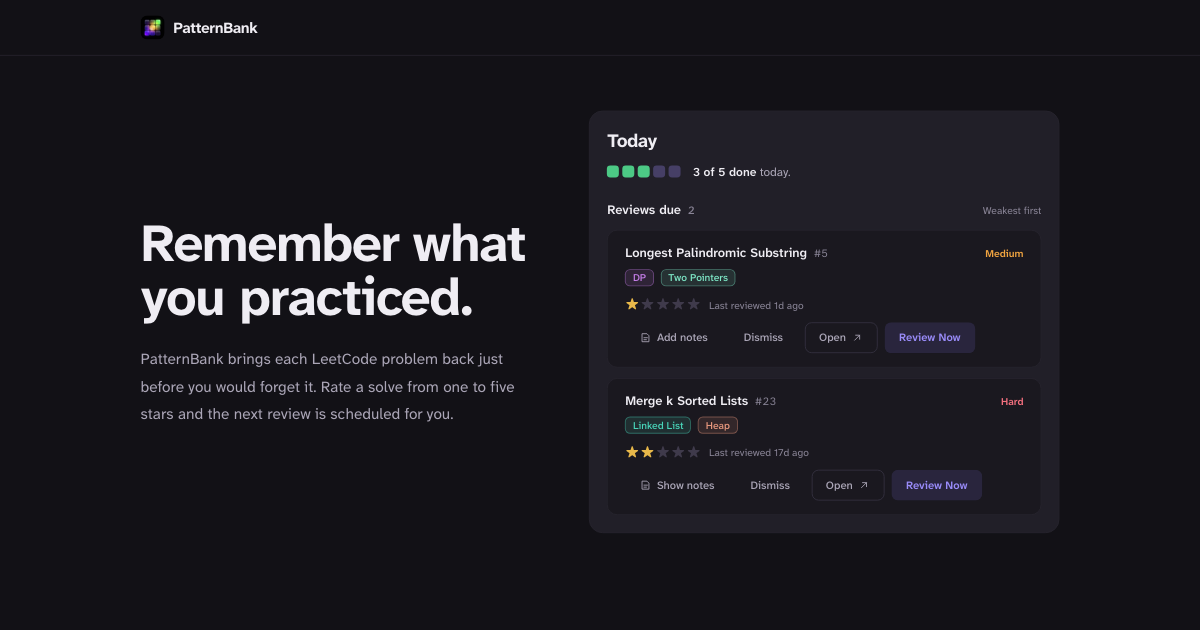
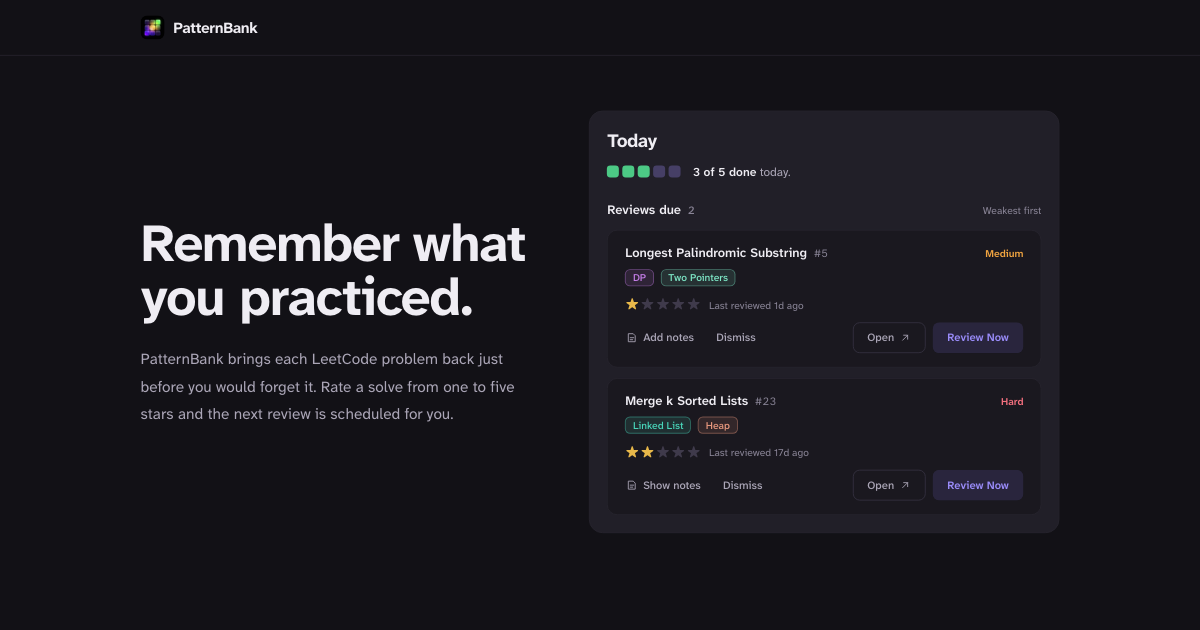
today: the review card's actions line up at every width
When the card was too narrow for one line, the buttons wrapped under the
stars and started with a borderless button, whose invisible padding left
its icon 16px in from the title, tags and stars; the row also ended
wherever its last button did.

The row now follows the card's own width (a container query, since the
same card is drawn full width on Today and in a narrow column on the
landing page):
- wide: one line, actions at the right, as before;
- medium: quiet actions on the left, flush with the content edge, and
  Open and Review Now on the right;
- narrow: the quiet actions, then the main pair across the card.

The sharing picture shows this card, so it is regenerated.

diff --git a/src/components/TodayReviewCard.tsx b/src/components/TodayReviewCard.tsx
@@ -36,6 +36,8 @@ export default function TodayReviewCard({
     ? `Last reviewed ${formatRelativeDate(problem.lastReviewed).toLowerCase()}`
     : "Never reviewed";
 
+  const showsNotesButton = !notesRevealed;
+
   const handleDone = (confidence: Confidence) => {
     onReview(problem.id, confidence);
     setReviewing(false);
@@ -43,7 +45,7 @@ export default function TodayReviewCard({
   };
 
   return (
-    <article className="rounded-xl border border-pb-border-light bg-pb-surface p-4 sm:px-5">
+    <article className="@container rounded-xl border border-pb-border-light bg-pb-surface p-4 sm:px-5">
       {/* Title line: what the problem is on the left, how hard on the right. */}
       <div className="flex items-baseline justify-between gap-4">
         <div className="flex min-w-0 flex-wrap items-baseline gap-x-2 gap-y-0.5">
@@ -86,26 +88,46 @@ export default function TodayReviewCard({
         )}
       </div>
 
-      <div className="mt-3.5 flex flex-wrap items-center justify-between gap-x-4 gap-y-3">
+      {/* The actions follow the card's own width, because the same card is
+          drawn full width on Today and in a narrow column elsewhere:
+          - wide: one line, the actions at the right of the stars;
+          - medium: their own line, quiet actions left and the main pair right;
+          - narrow: the quiet actions, then the main pair across the card. */}
+      <div className="mt-3.5 flex flex-col gap-3 @2xl:flex-row @2xl:items-center @2xl:justify-between @2xl:gap-4">
         <div className="flex items-center gap-2.5">
           <StarPicker mode="display" size="md" value={problem.confidence} />
           <span className="text-xs text-pb-text-dim">{lastReviewedText}</span>
         </div>
-        {/* The notes toggle stays while rating: notes are what you check
-            before deciding how well you knew it. */}
-        {(!reviewing || !notesRevealed) && (
-          <div className="flex flex-wrap items-center gap-2 max-sm:w-full">
-            {!notesRevealed && (
-              <button type="button" onClick={() => setNotesRevealed(true)} className={buttonClass("ghost")}>
-                <Icon name="note" className="h-3.5 w-3.5" />
-                {problem.notes ? "Show notes" : "Add notes"}
-              </button>
-            )}
-            {!reviewing && (
-              <>
-                <button type="button" onClick={() => onDismiss(problem.id)} className={buttonClass("ghost")}>
+        {(showsNotesButton || !reviewing) && (
+          <div className="flex flex-wrap items-center gap-x-4 gap-y-2 @md:flex-nowrap @md:justify-between @2xl:justify-end @2xl:gap-x-2">
+            {/* Borderless buttons carry padding nobody can see. Pulling the
+                group left by that padding puts its first label on the same
+                edge as the title, tags and stars. The notes toggle stays
+                while rating: notes are what you check before deciding how
+                well you knew it. */}
+            <div data-card-actions="quiet" className="-ml-2.5 flex items-center gap-1 @2xl:ml-0">
+              {showsNotesButton && (
+                <button
+                  type="button"
+                  onClick={() => setNotesRevealed(true)}
+                  className={`${buttonClass("ghost")} px-2.5!`}
+                >
+                  <Icon name="note" className="h-3.5 w-3.5" />
+                  {problem.notes ? "Show notes" : "Add notes"}
+                </button>
+              )}
+              {!reviewing && (
+                <button
+                  type="button"
+                  onClick={() => onDismiss(problem.id)}
+                  className={`${buttonClass("ghost")} px-2.5!`}
+                >
                   Dismiss
                 </button>
+              )}
+            </div>
+            {!reviewing && (
+              <div data-card-actions="main" className="flex items-center gap-2 @max-md:w-full">
                 {problem.url && (
                   <a
                     href={problem.url}
@@ -120,11 +142,11 @@ export default function TodayReviewCard({
                 <button
                   type="button"
                   onClick={() => setReviewing(true)}
-                  className={`${buttonClass("soft")} max-sm:flex-1`}
+                  className={`${buttonClass("soft")} @max-md:flex-1`}
                 >
                   Review Now
                 </button>
-              </>
+              </div>
             )}
           </div>
         )}

diff --git a/tests/todayReviewCard.test.tsx b/tests/todayReviewCard.test.tsx
@@ -1,0 +1,99 @@
+// @vitest-environment jsdom
+import { fireEvent, render, screen, within } from "@testing-library/react";
+import { describe, expect, it, vi } from "vitest";
+import TodayReviewCard from "../src/components/TodayReviewCard";
+import type { Problem } from "../src/types";
+
+function problem(overrides: Partial<Problem> = {}): Problem {
+  return {
+    id: "p5",
+    title: "Longest Palindromic Substring",
+    leetcodeNumber: 5,
+    url: "https://leetcode.com/problems/longest-palindromic-substring/",
+    difficulty: "Medium",
+    patterns: ["DP", "Two Pointers"],
+    confidence: 1,
+    notes: "",
+    excludeFromReview: false,
+    dateAdded: "2026-01-01",
+    lastReviewed: "2026-01-02",
+    nextReviewDate: "2026-01-03",
+    updatedAt: "2026-01-02T09:00:00.000Z",
+    ...overrides,
+  };
+}
+
+function renderCard(overrides: Partial<Problem> = {}) {
+  const handlers = { onReview: vi.fn(), onDismiss: vi.fn(), onUpdateNotes: vi.fn() };
+  const view = render(<TodayReviewCard problem={problem(overrides)} {...handlers} />);
+  return { ...view, ...handlers };
+}
+
+describe("TodayReviewCard actions", () => {
+  it("keeps the quiet actions together, ahead of the main ones", () => {
+    const { container } = renderCard();
+
+    const quiet = container.querySelector<HTMLElement>("[data-card-actions='quiet']");
+    const main = container.querySelector<HTMLElement>("[data-card-actions='main']");
+    expect(quiet).not.toBeNull();
+    expect(main).not.toBeNull();
+
+    expect(within(quiet!).getByRole("button", { name: "Add notes" })).toBeTruthy();
+    expect(within(quiet!).getByRole("button", { name: "Dismiss" })).toBeTruthy();
+    expect(within(main!).getByRole("link", { name: /Open/ })).toBeTruthy();
+    expect(within(main!).getByRole("button", { name: "Review Now" })).toBeTruthy();
+
+    // Quiet first, so they take the left of a narrow card and the main pair the right.
+    expect(quiet!.compareDocumentPosition(main!) & Node.DOCUMENT_POSITION_FOLLOWING).toBeTruthy();
+    expect(quiet!.parentElement).toBe(main!.parentElement);
+  });
+
+  it("lays the row out from the card's own width, not the window's", () => {
+    const { container } = renderCard();
+
+    // The same card is drawn full width on Today and in a narrow column
+    // elsewhere, so its breakpoints have to follow the card.
+    expect(container.querySelector("article")!.className).toContain("@container");
+    const quiet = container.querySelector<HTMLElement>("[data-card-actions='quiet']")!;
+    // A borderless button's padding is invisible; the group is pulled left by
+    // that padding so its first label starts on the card's content edge.
+    expect(quiet.className).toContain("-ml-2.5");
+    for (const button of within(quiet).getAllByRole("button")) {
+      expect(button.className).toContain("px-2.5!");
+    }
+  });
+
+  it("still dismisses, opens notes and starts a review", () => {
+    const { onDismiss } = renderCard();
+
+    fireEvent.click(screen.getByRole("button", { name: "Dismiss" }));
+    expect(onDismiss).toHaveBeenCalledWith("p5");
+
+    fireEvent.click(screen.getByRole("button", { name: "Add notes" }));
+    expect(screen.getByPlaceholderText("Add notes...")).toBeTruthy();
+    expect(screen.queryByRole("button", { name: "Add notes" })).toBeNull();
+
+    fireEvent.click(screen.getByRole("button", { name: "Review Now" }));
+    expect(screen.queryByRole("button", { name: "Review Now" })).toBeNull();
+    expect(screen.queryByRole("button", { name: "Dismiss" })).toBeNull();
+  });
+
+  it("keeps only the notes button while rating", () => {
+    const { container } = renderCard({ notes: "Expand around each centre." });
+
+    fireEvent.click(screen.getByRole("button", { name: "Review Now" }));
+
+    const quiet = container.querySelector<HTMLElement>("[data-card-actions='quiet']")!;
+    expect(within(quiet).getByRole("button", { name: "Show notes" })).toBeTruthy();
+    expect(container.querySelector("[data-card-actions='main']")).toBeNull();
+  });
+
+  it("leaves no empty action groups behind", () => {
+    const { container } = renderCard({ url: null });
+
+    fireEvent.click(screen.getByRole("button", { name: "Add notes" }));
+    fireEvent.click(screen.getByRole("button", { name: "Review Now" }));
+
+    expect(container.querySelector("[data-card-actions]")).toBeNull();
+  });
+});
